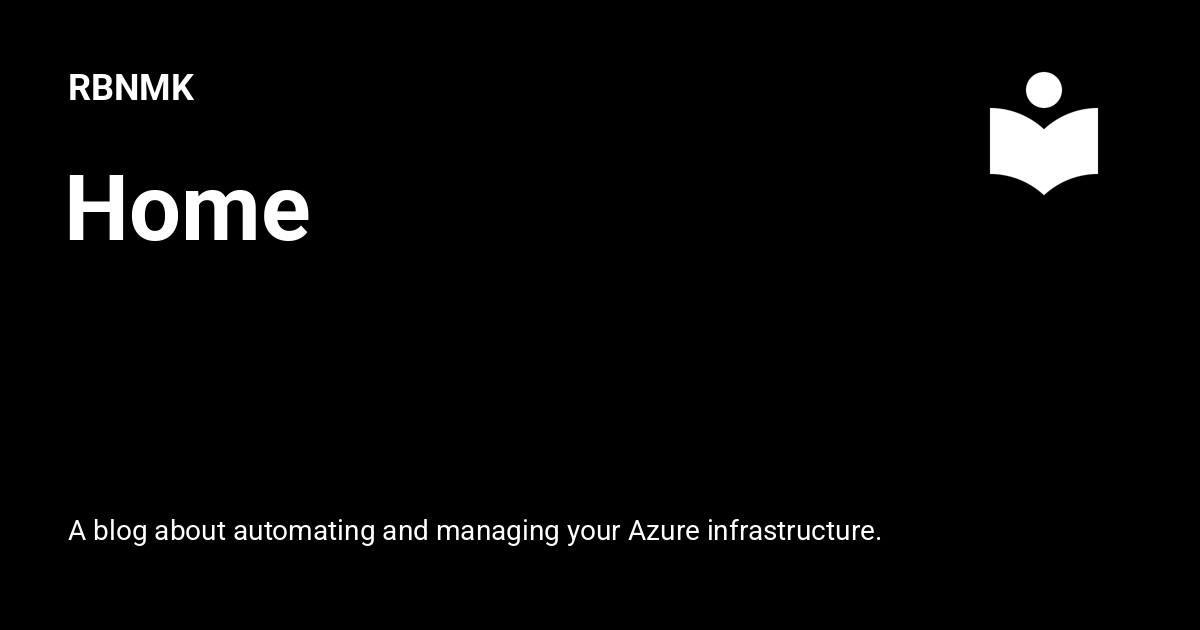
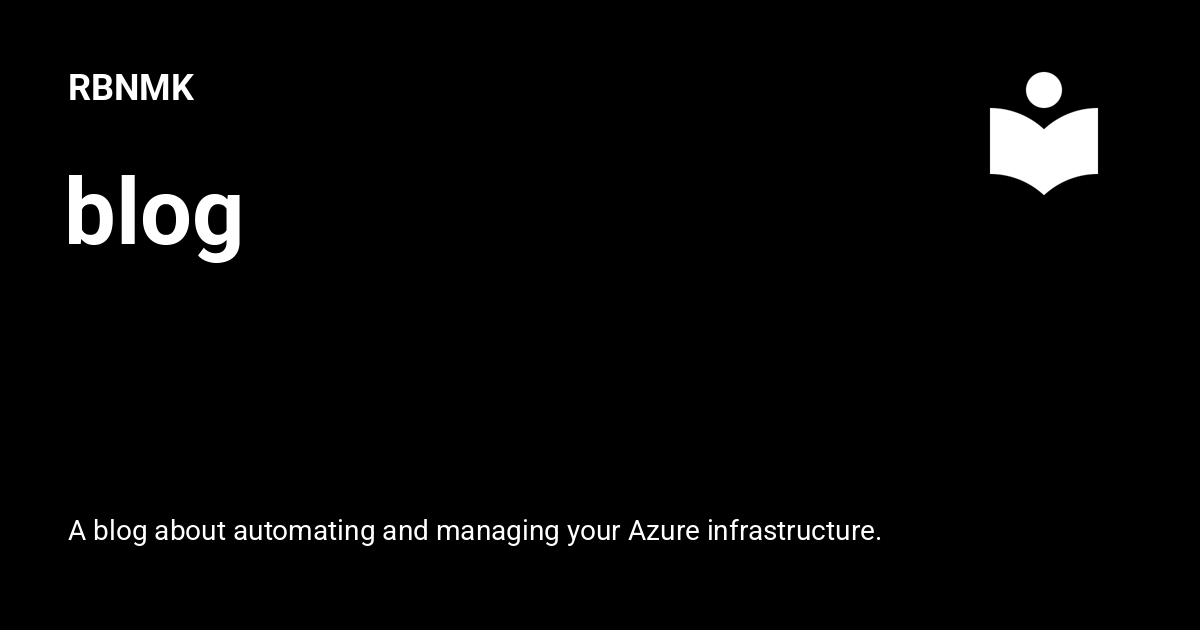
Deployed 8895f31 with MkDocs version: 1.6.1

Changed region(s): [[0.0617, 0.2714, 0.2775, 0.4222]]

diff --git a/index.html b/index.html
@@ -115,7 +115,7 @@
     <div data-md-component="skip">
       
         
-        <a href="#azure-blogs" class="md-skip">
+        <a href="#blog" class="md-skip">
           Skip to content
         </a>
       
@@ -149,7 +149,7 @@
         <div class="md-header__topic" data-md-component="header-topic">
           <span class="md-ellipsis">
             
-              Home
+              blog
             
           </span>
         </div>
@@ -268,7 +268,7 @@
   
     
   
-  Home
+  blog
 
       </a>
     </li>
@@ -365,55 +365,19 @@
       <input class="md-nav__toggle md-toggle" type="checkbox" id="__toc">
       
       
+        
       
-        <label class="md-nav__link md-nav__link--active" for="__toc">
-          
-  
-  <span class="md-ellipsis">
-    Home
-    
-  </span>
-  
-
-          <span class="md-nav__icon md-icon"></span>
-        </label>
       
       <a href="." class="md-nav__link md-nav__link--active">
         
   
   <span class="md-ellipsis">
-    Home
+    blog
     
   </span>
   
 
       </a>
-      
-        
-
-<nav class="md-nav md-nav--secondary" aria-label="Table of contents">
-  
-  
-  
-  
-    <label class="md-nav__title" for="__toc">
-      <span class="md-nav__icon md-icon"></span>
-      Table of contents
-    </label>
-    <ul class="md-nav__list" data-md-component="toc" data-md-scrollfix>
-      
-        <li class="md-nav__item">
-  <a href="#azure-blogs" class="md-nav__link">
-    <span class="md-ellipsis">
-      Azure blogs
-    </span>
-  </a>
-  
-</li>
-      
-    </ul>
-  
-</nav>
       
     </li>
   
@@ -692,23 +656,8 @@
   
   
   
+    
   
-    <label class="md-nav__title" for="__toc">
-      <span class="md-nav__icon md-icon"></span>
-      Table of contents
-    </label>
-    <ul class="md-nav__list" data-md-component="toc" data-md-scrollfix>
-      
-        <li class="md-nav__item">
-  <a href="#azure-blogs" class="md-nav__link">
-    <span class="md-ellipsis">
-      Azure blogs
-    </span>
-  </a>
-  
-</li>
-      
-    </ul>
   
 </nav>
                   </div>
@@ -720,9 +669,7 @@
   <div class="md-content" data-md-component="content">
     <div class="md-content__inner">
       <header class="md-typeset">
-        <p>Welcome to this blog, where I share my ideas, designs and solutions to problems that you might run into. Hopefully to help you out. If you want to reach out or get in touch, feel free to do so via social media. I will try to respond as soon as I can.</p>
-<h3 id="azure-blogs">Azure blogs<a class="headerlink" href="#azure-blogs" title="Permanent link">&para;</a></h3>
-<p><a class="md-button" href="/blog/category/azure/"><span class="twemoji"><svg xmlns="http://www.w3.org/2000/svg" viewBox="0 0 24 24"><path d="M13.05 4.24 6.56 18.05 2 18l5.09-8.76zm.7 1.09L22 19.76H6.74l9.3-1.66-4.87-5.79z"/></svg></span></a></p>
+        <h1 id="blog">blog<a class="headerlink" href="#blog" title="Permanent link">&para;</a></h1>
       </header>
       
         <article class="md-post md-post--excerpt">

diff --git a/2020/03/27/azure-update-management-you-have-requested-to-create-an-update-configuration-on-a-machine-that-is-not-registered-for-update-management/index.html b/2020/03/27/azure-update-management-you-have-requested-to-create-an-update-configuration-on-a-machine-that-is-not-registered-for-update-management/index.html
@@ -268,7 +268,7 @@
   
     
   
-  Home
+  blog
 
       </a>
     </li>
@@ -365,7 +365,7 @@
         
   
   <span class="md-ellipsis">
-    Home
+    blog
     
   </span>
   
@@ -685,11 +685,11 @@
                     <span class="md-profile__description">
                       <strong>
                         
-                          <a href="https://rbnmk.net/about/">Robin Makkus</a>
+                          <a href="https://www.linkedin.com/in/robinmakkus/">Robin Makkus</a>
                         
                       </strong>
                       <br>
-                      
+                      Azure Consultant
                     </span>
                   </div>
                 

diff --git a/2022/01/01/disable-health-probe-on-azure-front-door-origin-groups-using-bicep/index.html b/2022/01/01/disable-health-probe-on-azure-front-door-origin-groups-using-bicep/index.html
@@ -270,7 +270,7 @@
   
     
   
-  Home
+  blog
 
       </a>
     </li>
@@ -367,7 +367,7 @@
         
   
   <span class="md-ellipsis">
-    Home
+    blog
     
   </span>
   
@@ -746,11 +746,11 @@
                     <span class="md-profile__description">
                       <strong>
                         
-                          <a href="https://rbnmk.net/about/">Robin Makkus</a>
+                          <a href="https://www.linkedin.com/in/robinmakkus/">Robin Makkus</a>
                         
                       </strong>
                       <br>
-                      
+                      Azure Consultant
                     </span>
                   </div>
                 

diff --git a/2022/11/15/azure-automation-runbook-could-not-convert-string-to-datetimeoffset/index.html b/2022/11/15/azure-automation-runbook-could-not-convert-string-to-datetimeoffset/index.html
@@ -270,7 +270,7 @@
   
     
   
-  Home
+  blog
 
       </a>
     </li>
@@ -367,7 +367,7 @@
         
   
   <span class="md-ellipsis">
-    Home
+    blog
     
   </span>
   
@@ -687,11 +687,11 @@
                     <span class="md-profile__description">
                       <strong>
                         
-                          <a href="https://rbnmk.net/about/">Robin Makkus</a>
+                          <a href="https://www.linkedin.com/in/robinmakkus/">Robin Makkus</a>
                         
                       </strong>
                       <br>
-                      
+                      Azure Consultant
                     </span>
                   </div>
                 

diff --git a/2023/07/12/failed-to-save-kubernetes-service---addonprofilesingressapplicationgatewayconfigapplicationgatewayid-is-invalid/index.html b/2023/07/12/failed-to-save-kubernetes-service---addonprofilesingressapplicationgatewayconfigapplicationgatewayid-is-invalid/index.html
@@ -270,7 +270,7 @@
   
     
   
-  Home
+  blog
 
       </a>
     </li>
@@ -367,7 +367,7 @@
         
   
   <span class="md-ellipsis">
-    Home
+    blog
     
   </span>
   
@@ -731,11 +731,11 @@
                     <span class="md-profile__description">
                       <strong>
                         
-                          <a href="https://rbnmk.net/about/">Robin Makkus</a>
+                          <a href="https://www.linkedin.com/in/robinmakkus/">Robin Makkus</a>
                         
                       </strong>
                       <br>
-                      
+                      Azure Consultant
                     </span>
                   </div>
                 

diff --git a/2025/01/02/from-jekyll-to-mkdocs-in-2025/index.html b/2025/01/02/from-jekyll-to-mkdocs-in-2025/index.html
@@ -268,7 +268,7 @@
   
     
   
-  Home
+  blog
 
       </a>
     </li>
@@ -365,7 +365,7 @@
         
   
   <span class="md-ellipsis">
-    Home
+    blog
     
   </span>
   
@@ -685,11 +685,11 @@
                     <span class="md-profile__description">
                       <strong>
                         
-                          <a href="https://rbnmk.net/about/">Robin Makkus</a>
+                          <a href="https://www.linkedin.com/in/robinmakkus/">Robin Makkus</a>
                         
                       </strong>
                       <br>
-                      
+                      Azure Consultant
                     </span>
                   </div>
                 

diff --git a/404.html b/404.html
@@ -231,7 +231,7 @@
   
     
   
-  Home
+  blog
 
       </a>
     </li>
@@ -324,7 +324,7 @@
         
   
   <span class="md-ellipsis">
-    Home
+    blog
     
   </span>
   

diff --git a/archive/2020/index.html b/archive/2020/index.html
@@ -266,7 +266,7 @@
   
     
   
-  Home
+  blog
 
       </a>
     </li>
@@ -361,7 +361,7 @@
         
   
   <span class="md-ellipsis">
-    Home
+    blog
     
   </span>
   

diff --git a/archive/2022/index.html b/archive/2022/index.html
@@ -268,7 +268,7 @@
   
     
   
-  Home
+  blog
 
       </a>
     </li>
@@ -363,7 +363,7 @@
         
   
   <span class="md-ellipsis">
-    Home
+    blog
     
   </span>
   

diff --git a/archive/2023/index.html b/archive/2023/index.html
@@ -268,7 +268,7 @@
   
     
   
-  Home
+  blog
 
       </a>
     </li>
@@ -363,7 +363,7 @@
         
   
   <span class="md-ellipsis">
-    Home
+    blog
     
   </span>
   

diff --git a/archive/2025/index.html b/archive/2025/index.html
@@ -268,7 +268,7 @@
   
     
   
-  Home
+  blog
 
       </a>
     </li>
@@ -363,7 +363,7 @@
         
   
   <span class="md-ellipsis">
-    Home
+    blog
     
   </span>
   

diff --git a/category/azure/index.html b/category/azure/index.html
@@ -268,7 +268,7 @@
   
     
   
-  Home
+  blog
 
       </a>
     </li>
@@ -363,7 +363,7 @@
         
   
   <span class="md-ellipsis">
-    Home
+    blog
     
   </span>
   
